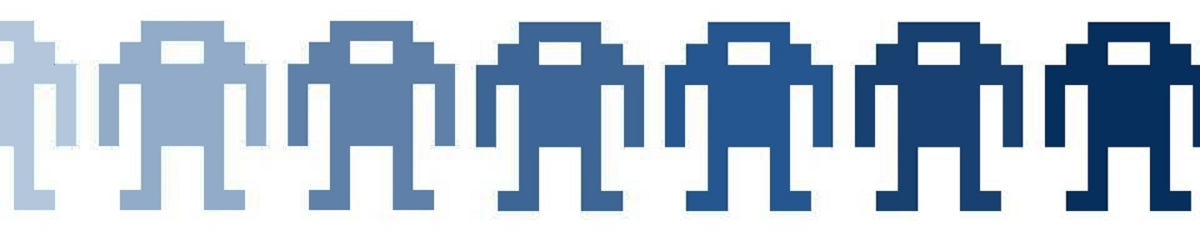
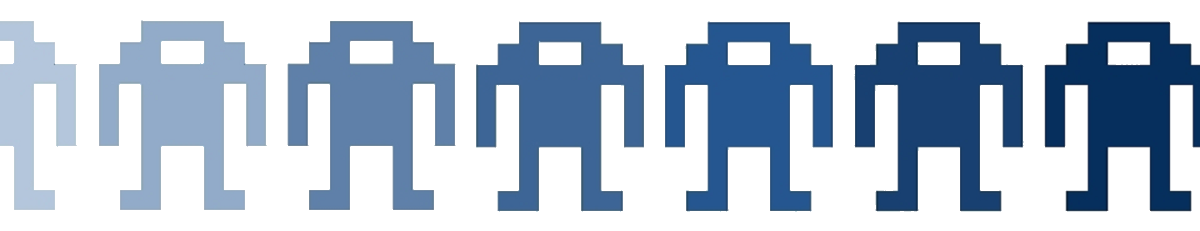
new images

diff --git a/botforge/Content/Site.css b/botforge/Content/Site.css
@@ -53,7 +53,7 @@ input[type="checkbox"].input-validation-error {
 }
 
 a.site-logo  {     
- background: url(../img/logo_tile.png) no-repeat top left !important;
+ background: url(../img/logo.png) no-repeat top left !important;
  display: block;       
  width: 250px;       
  height: 33px;       
